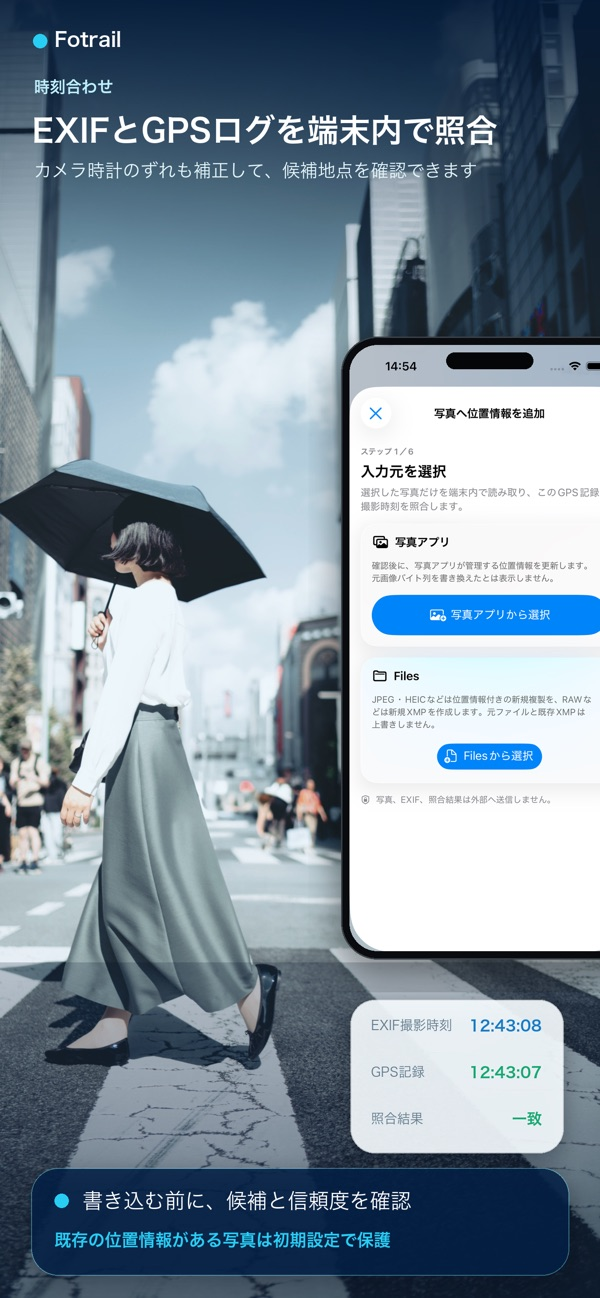
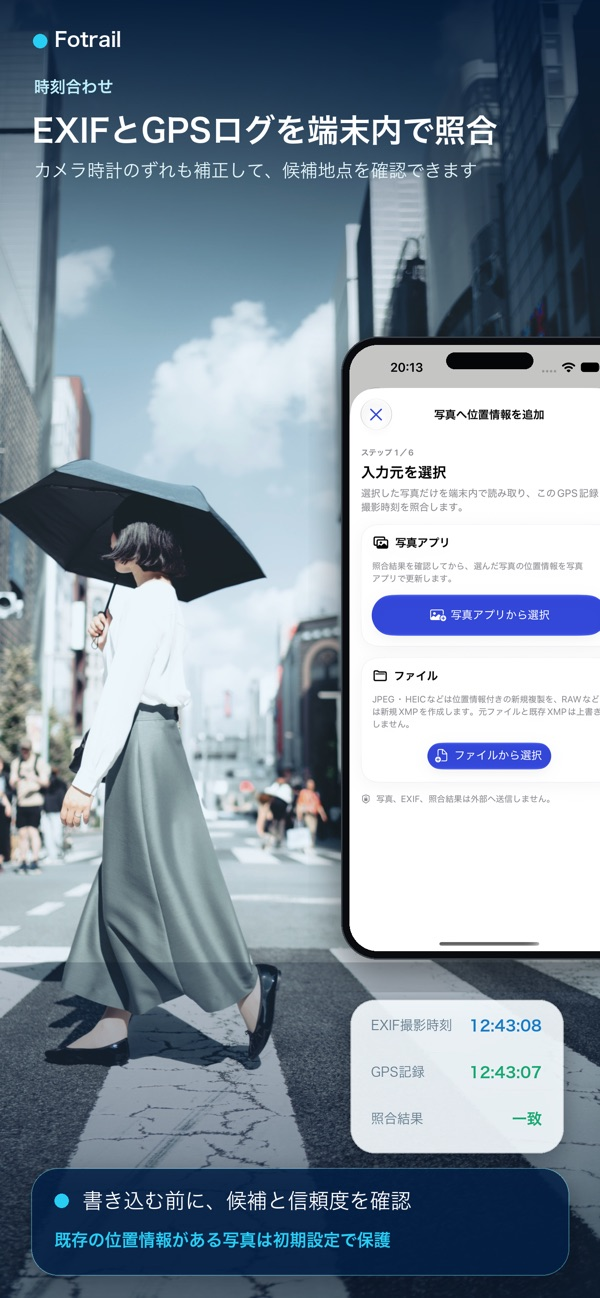
Refresh BUFF release, pending reviews and six store images

diff --git a/index.html b/index.html
@@ -57,11 +57,11 @@
                 <h4 class="detail-title">トレーニングを記録する</h4>
                 <div class="detail-actions"><a class="primary-link" href="https://apps.apple.com/jp/app/id6759157626" aria-label="App StoreでBUFFを見る">App Storeで見る<span class="arrow" aria-hidden="true"></span></a><a class="text-link" href="trelog/">使い方・サポート<span class="arrow" aria-hidden="true"></span></a></div>
               </div>
-              <div class="detail-visual"><p class="gallery-caption"><span>App Storeの画像</span><span>横スクロール <span aria-hidden="true">→</span></span></p><div class="screenshot-gallery" role="region" aria-label="BUFFのスクリーンショット、横にスクロールできます" tabindex="0"><img src="assets/screenshots/buff-01.jpg" width="600" height="1300" alt="BUFFのApp Storeスクリーンショット 1 / 7" loading="lazy" decoding="async"><img src="assets/screenshots/buff-02.jpg" width="600" height="1300" alt="BUFFのApp Storeスクリーンショット 2 / 7" loading="lazy" decoding="async"><img src="assets/screenshots/buff-03.jpg" width="600" height="1300" alt="BUFFのApp Storeスクリーンショット 3 / 7" loading="lazy" decoding="async"><img src="assets/screenshots/buff-04.jpg" width="600" height="1300" alt="BUFFのApp Storeスクリーンショット 4 / 7" loading="lazy" decoding="async"><img src="assets/screenshots/buff-05.jpg" width="600" height="1300" alt="BUFFのApp Storeスクリーンショット 5 / 7" loading="lazy" decoding="async"><img src="assets/screenshots/buff-06.jpg" width="600" height="1300" alt="BUFFのApp Storeスクリーンショット 6 / 7" loading="lazy" decoding="async"><img src="assets/screenshots/buff-07.jpg" width="600" height="1300" alt="BUFFのApp Storeスクリーンショット 7 / 7" loading="lazy" decoding="async"></div></div>
+              <div class="detail-visual"><p class="gallery-caption"><span>App Storeの画像</span><span>横スクロール <span aria-hidden="true">→</span></span></p><div class="screenshot-gallery" role="region" aria-label="BUFFのスクリーンショット、横にスクロールできます" tabindex="0"><img src="assets/screenshots/buff-01.jpg" width="600" height="1300" alt="BUFFのApp Storeスクリーンショット 1 / 7" loading="lazy" decoding="async"><img src="assets/screenshots/buff-02.jpg" width="600" height="1300" alt="BUFFのApp Storeスクリーンショット 2 / 7" loading="lazy" decoding="async"><img src="assets/screenshots/buff-03.jpg" width="600" height="1300" alt="BUFFのApp Storeスクリーンショット 3 / 7" loading="lazy" decoding="async"><img src="assets/screenshots/buff-04.jpg?v=20261120" width="598" height="1300" alt="BUFFのApp Storeスクリーンショット 4 / 7" loading="lazy" decoding="async"><img src="assets/screenshots/buff-05.jpg" width="600" height="1300" alt="BUFFのApp Storeスクリーンショット 5 / 7" loading="lazy" decoding="async"><img src="assets/screenshots/buff-06.jpg" width="600" height="1300" alt="BUFFのApp Storeスクリーンショット 6 / 7" loading="lazy" decoding="async"><img src="assets/screenshots/buff-07.jpg?v=20261120" width="598" height="1300" alt="BUFFのApp Storeスクリーンショット 7 / 7" loading="lazy" decoding="async"></div></div>
               <div class="detail-copy">
                 <p class="detail-description"><span class="phrase">種目や重量を</span><span class="phrase">すばやく記録できます。</span><span class="phrase">前回のセットと比べて</span><span class="phrase">日々の積み重ねを</span><span class="phrase">振り返れます。</span></p>
                 <ul class="detail-points"><li>セットを記録</li><li>前回と比較</li></ul>
-                <p class="detail-update"><span class="update-meta">最終更新 <time datetime="2026-11-19">2026年11月19日</time> · 3.8.5</span><span class="update-note">共有画像にワークアウトの実績と部位サマリーを表示し、入力や写真削除の不具合を修正しました</span></p>
+                <p class="detail-update"><span class="update-meta">最終更新 <time datetime="2026-11-20">2026年11月20日</time> · 3.9.0</span><span class="update-note">前回の値を見ながらのセット入力やカスタム種目登録に対応し、レビュー・共有・バックアップを改善しました</span></p>
               </div>
             </article>
             <article class="app-panel" id="app-memorydrop" data-app="memorydrop" aria-labelledby="name-memorydrop" tabindex="-1">
@@ -79,11 +79,11 @@
             </article>
             <article class="app-panel" id="app-fotrail" data-app="fotrail" aria-labelledby="name-fotrail" tabindex="-1">
               <div class="detail-lead">
-                <div class="detail-identity"><h3 id="name-fotrail">Fotrail</h3><p class="app-status">公開中</p></div>
+                <div class="detail-identity"><h3 id="name-fotrail">Fotrail</h3><p class="app-status">公開中 · 2.5.0は審査待ち</p></div>
                 <h4 class="detail-title">旅の足あとを残す</h4>
                 <div class="detail-actions"><a class="primary-link" href="https://apps.apple.com/jp/app/id6792297035" aria-label="App StoreでFotrailを見る">App Storeで見る<span class="arrow" aria-hidden="true"></span></a><a class="text-link" href="Fotrail/">使い方・サポート<span class="arrow" aria-hidden="true"></span></a></div>
               </div>
-              <div class="detail-visual"><p class="gallery-caption"><span>App Storeの画像</span><span>横スクロール <span aria-hidden="true">→</span></span></p><div class="screenshot-gallery" role="region" aria-label="Fotrailのスクリーンショット、横にスクロールできます" tabindex="0"><img src="assets/screenshots/fotrail-01.jpg" width="600" height="1300" alt="FotrailのApp Storeスクリーンショット 1 / 8" loading="lazy" decoding="async"><img src="assets/screenshots/fotrail-02.jpg" width="600" height="1300" alt="FotrailのApp Storeスクリーンショット 2 / 8" loading="lazy" decoding="async"><img src="assets/screenshots/fotrail-03.jpg" width="600" height="1300" alt="FotrailのApp Storeスクリーンショット 3 / 8" loading="lazy" decoding="async"><img src="assets/screenshots/fotrail-04.jpg" width="600" height="1300" alt="FotrailのApp Storeスクリーンショット 4 / 8" loading="lazy" decoding="async"><img src="assets/screenshots/fotrail-05.jpg" width="600" height="1300" alt="FotrailのApp Storeスクリーンショット 5 / 8" loading="lazy" decoding="async"><img src="assets/screenshots/fotrail-06.jpg" width="600" height="1300" alt="FotrailのApp Storeスクリーンショット 6 / 8" loading="lazy" decoding="async"><img src="assets/screenshots/fotrail-07.jpg" width="600" height="1300" alt="FotrailのApp Storeスクリーンショット 7 / 8" loading="lazy" decoding="async"><img src="assets/screenshots/fotrail-08.jpg" width="600" height="1300" alt="FotrailのApp Storeスクリーンショット 8 / 8" loading="lazy" decoding="async"></div></div>
+              <div class="detail-visual"><p class="gallery-caption"><span>App Storeの画像</span><span>横スクロール <span aria-hidden="true">→</span></span></p><div class="screenshot-gallery" role="region" aria-label="Fotrailのスクリーンショット、横にスクロールできます" tabindex="0"><img src="assets/screenshots/fotrail-01.jpg" width="600" height="1300" alt="FotrailのApp Storeスクリーンショット 1 / 8" loading="lazy" decoding="async"><img src="assets/screenshots/fotrail-02.jpg?v=20261120" width="600" height="1298" alt="FotrailのApp Storeスクリーンショット 2 / 8" loading="lazy" decoding="async"><img src="assets/screenshots/fotrail-03.jpg?v=20261120" width="600" height="1298" alt="FotrailのApp Storeスクリーンショット 3 / 8" loading="lazy" decoding="async"><img src="assets/screenshots/fotrail-04.jpg" width="600" height="1300" alt="FotrailのApp Storeスクリーンショット 4 / 8" loading="lazy" decoding="async"><img src="assets/screenshots/fotrail-05.jpg?v=20261120" width="600" height="1298" alt="FotrailのApp Storeスクリーンショット 5 / 8" loading="lazy" decoding="async"><img src="assets/screenshots/fotrail-06.jpg" width="600" height="1300" alt="FotrailのApp Storeスクリーンショット 6 / 8" loading="lazy" decoding="async"><img src="assets/screenshots/fotrail-07.jpg?v=20261120" width="600" height="1298" alt="FotrailのApp Storeスクリーンショット 7 / 8" loading="lazy" decoding="async"><img src="assets/screenshots/fotrail-08.jpg" width="600" height="1300" alt="FotrailのApp Storeスクリーンショット 8 / 8" loading="lazy" decoding="async"></div></div>
               <div class="detail-copy">
                 <p class="detail-description"><span class="phrase">撮影中の</span><span class="phrase">移動ルートを</span><span class="phrase">GPSで記録できます。</span><span class="phrase">写真の撮影時刻と</span><span class="phrase">照らし合わせて</span><span class="phrase">旅の足あとや</span><span class="phrase">撮影場所を</span><span class="phrase">振り返れます。</span></p>
                 <ul class="detail-points"><li>GPSルート</li><li>写真の撮影場所</li></ul>
@@ -118,7 +118,7 @@
             </article>
             <article class="app-panel" id="app-snipfuse" data-app="snipfuse" aria-labelledby="name-snipfuse" tabindex="-1">
               <div class="detail-lead">
-                <div class="detail-identity"><h3 id="name-snipfuse">SnipFuse</h3><p class="app-status">公開中</p></div>
+                <div class="detail-identity"><h3 id="name-snipfuse">SnipFuse</h3><p class="app-status">公開中 · 1.3.0は審査待ち</p></div>
                 <h4 class="detail-title">動画を切ってつなぐ</h4>
                 <div class="detail-actions"><a class="primary-link" href="https://apps.apple.com/jp/app/id6801063682" aria-label="App StoreでSnipFuseを見る">App Storeで見る<span class="arrow" aria-hidden="true"></span></a><a class="text-link" href="SnipFuse/">使い方・サポート<span class="arrow" aria-hidden="true"></span></a></div>
               </div>
@@ -144,7 +144,7 @@
             </article>
             <article class="app-panel" id="app-nuan" data-app="nuan" aria-labelledby="name-nuan" tabindex="-1">
               <div class="detail-lead">
-                <div class="detail-identity"><h3 id="name-nuan">nuan</h3><p class="app-status">公開中 · 1.17.0は審査待ち</p></div>
+                <div class="detail-identity"><h3 id="name-nuan">nuan</h3><p class="app-status">公開中 · 1.17.1は審査待ち</p></div>
                 <h4 class="detail-title">写真も動画も仕上げる</h4>
                 <div class="detail-actions"><a class="primary-link" href="https://apps.apple.com/jp/app/id6828605269" aria-label="App Storeでnuanを見る">App Storeで見る<span class="arrow" aria-hidden="true"></span></a><a class="text-link" href="nuan/">使い方・サポート<span class="arrow" aria-hidden="true"></span></a></div>
               </div>
